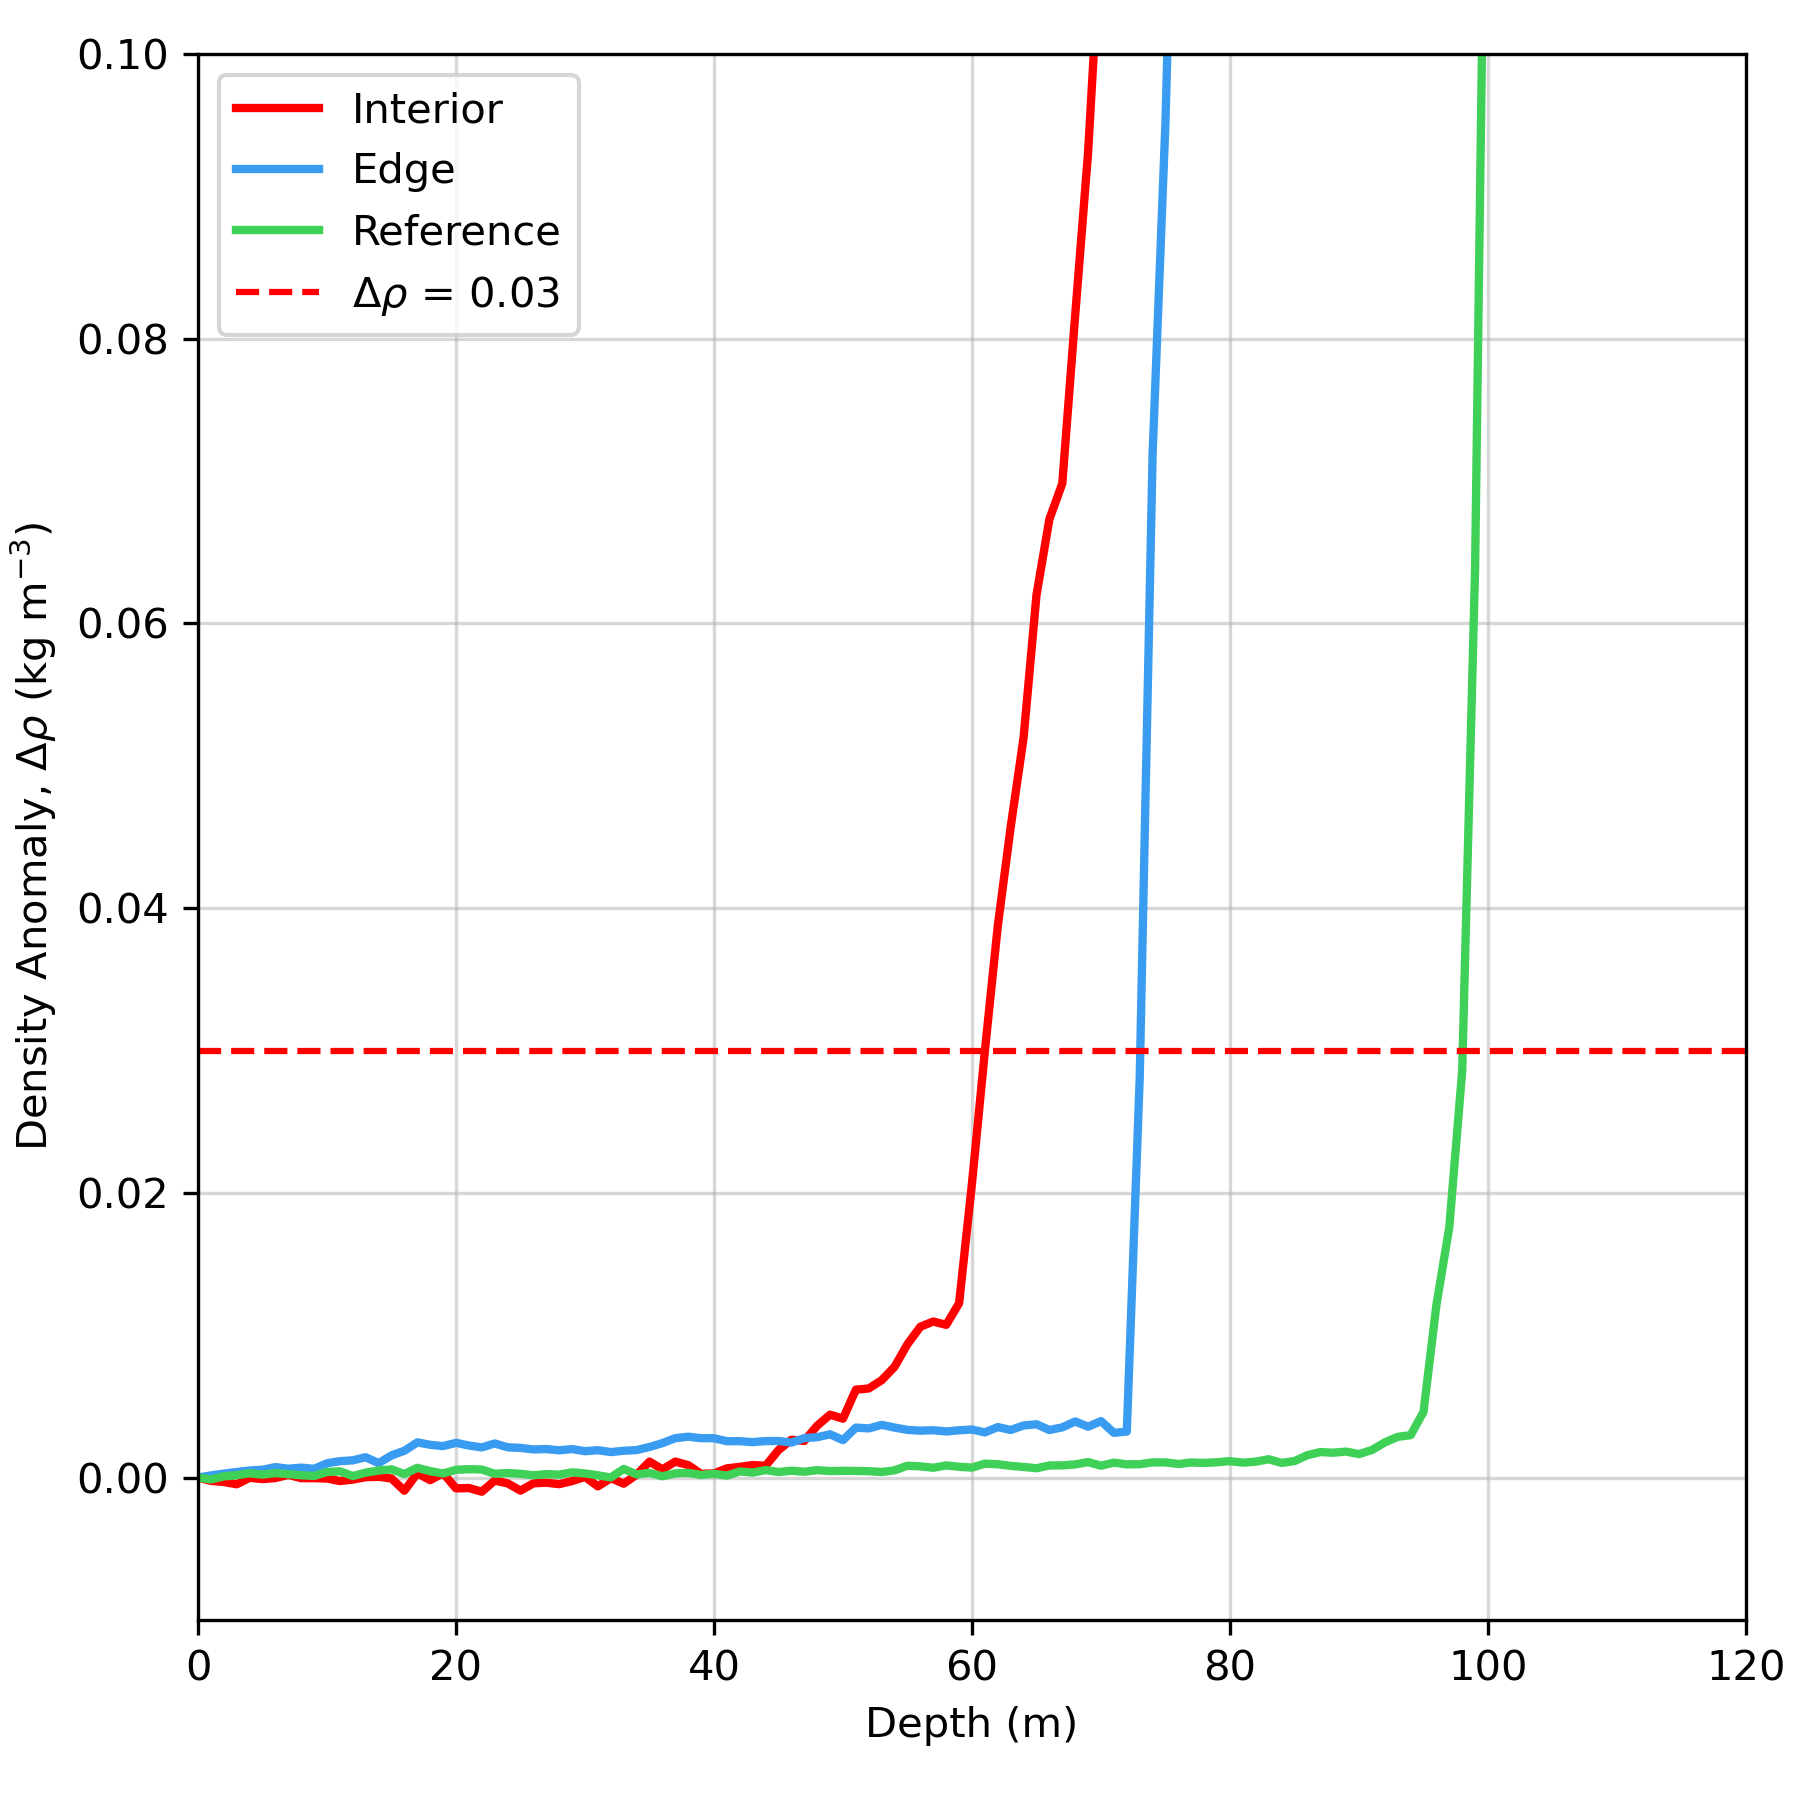
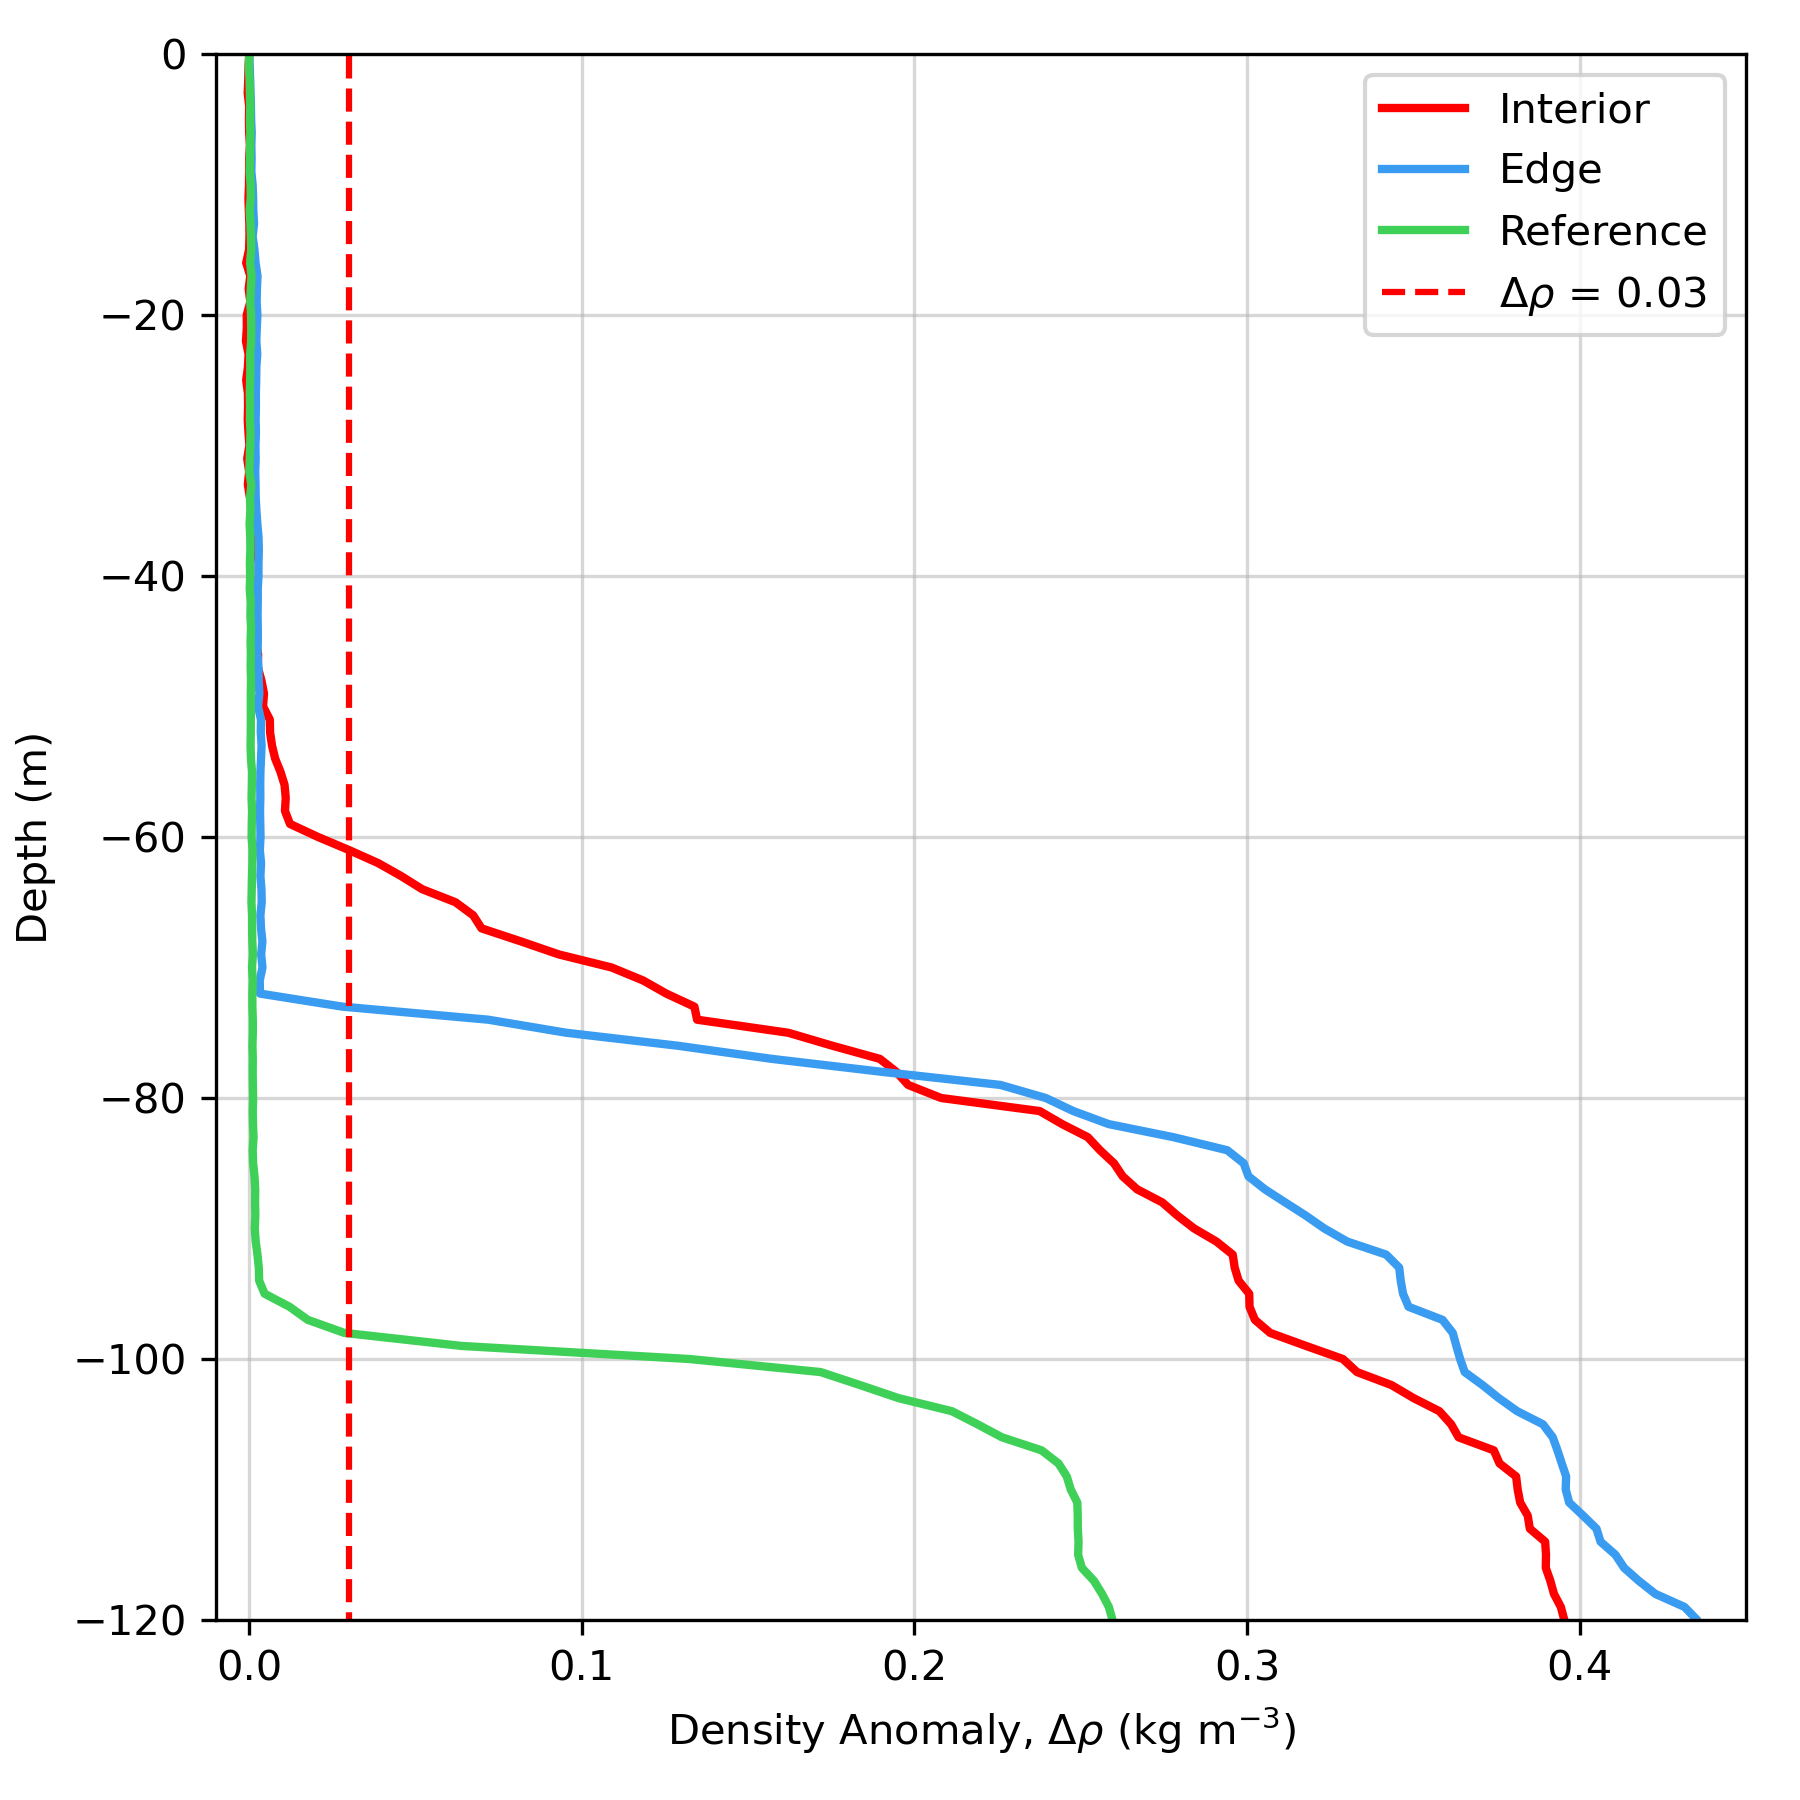
added figR2 for appendix

diff --git a/Louis/code/FigureR.py b/Louis/code/FigureR.py
@@ -3,26 +3,35 @@ import matplotlib as mpl
 from setup import import_split_and_make_transects
 from preprocessing.apply_preprocessing import scatter_and_chlorophyll_processing
 import seaborn as sns
+from gsw.density import sigma0, sigma1, rho_t_exact
+from gsw.conversions import SP_from_SA
+import numpy as np
+from preprocessing.depth_calculations.mld import MLD_calculation
 
 transects, profiles = import_split_and_make_transects(use_cache=True,
                                                       use_downcasts=True,)
 
 def temp_salinity_plot(profiles:list, ax:plt.axes, c) :
+    profiles = MLD_calculation(profiles)
     for profile in profiles:
-        pcm = ax.scatter(profile.data["salinity_final"], profile.data["temperature_final"],
-                   c="#00000000", marker="o", edgecolor=c, linewidth=0.5, s=3)
+        pd = profile.data
+        #print(pd["SA"].iloc[0], pd["CT"].iloc[0], sigma0(pd["SA"].iloc[0], pd["CT"].iloc[0]))
+        pcm = ax.scatter(pd["SA"], pd["CT"],
+                   c="#00000000", marker="o", edgecolor=c, linewidth=0.5, s=3, zorder=2)
     return pcm  
 
 
-#profiles.pop(576)
+profiles.pop(576)
 profiles = [p for p in profiles if p.index != 614]
 
 profiles1 = [p for p in profiles if p.index >= 495 and p.index < 565]
 profiles2 = [p for p in profiles if p.index >= 565 and p.index < 631]
 
 interior1 = [p for p in profiles if p.index >= 495 and p.index < 546]#550
-exterior1 = [p for p in profiles if p.index >= 548 and p.index < 565]
+b1 = [p for p in profiles if p.index >= 547 and p.index < 549]
+exterior1 = [p for p in profiles if p.index >= 549 and p.index < 565]
 exterior2 = [p for p in profiles if p.index >= 565 and p.index < 574]#580
+b2 = [p for p in profiles if p.index >= 574 and p.index < 580]
 interior2 = [p for p in profiles if p.index >= 580 and p.index < 631]
 
 #profiles 547 and 548 and 574-579 are excluded as they do not fit either water mass
@@ -30,7 +39,7 @@ p1 = [p for p in profiles if p.index == 547][0]
 print(p1.start_time, p1.end_time)
 
 
-
+boundary = b1 + b2
 exterior = exterior1 + exterior2
 interior = interior1 + interior2
 
@@ -38,29 +47,51 @@ ref = [p for p in profiles if p.index >= 710 and p.index < 760]
 
 
 fig = plt.figure(figsize=(4, 4))
-ax1 = fig.add_axes([0.2, 0.15, 0.75, 0.75])
+ax1 = fig.add_axes([0.2, 0.13, 0.75, 0.85])
 
 
 
-colors = sns.palettes.color_palette("Set1")[:2]
+colors = ["#ED7779", "#6CA9DB", "#A8D18D"]
 
+
+
+
+
+print(rho_t_exact(34.6, 1, 0))
+print(sigma0(34.6, 1))
 
 p1 = temp_salinity_plot(interior, ax1, colors[0])
+p3 = temp_salinity_plot(boundary, ax1, colors[2])
 p2 = temp_salinity_plot(exterior, ax1, colors[1])
 
 xlims, ylims = ax1.get_xlim(), ax1.get_ylim()
 
-ax1.scatter([0], [0], c="#00000000", marker="o", edgecolor=colors[0], linewidth=1, s=20, label="Interior")
-ax1.scatter([0], [0], c="#00000000", marker="o", edgecolor=colors[1], linewidth=1, s=20, label="Edge")
+
+xs = np.linspace(xlims[0]-1, xlims[1]+1, 1000)
+
+xs = SP_from_SA(xs, 0, -36.5, -61)
+
+
+X, Y = np.meshgrid(
+    xs,
+    np.linspace(ylims[0], ylims[1], 1000)
+)
+sigma = sigma0(X, Y) + 1000
+CS = ax1.contour(X, Y, sigma, colors="black", linewidths=0.5, levels=(1027.15, 1027.3, 1027.45, 1027.6, 1027.75, 1027.9))
+
+ax1.clabel(CS, fontsize=6)
+
+ax1.scatter([0], [0], c="#00000000", marker="o", edgecolor=colors[0], linewidth=1.5, s=20, label="Interior")
+ax1.scatter([0], [0], c="#00000000", marker="o", edgecolor=colors[1], linewidth=1.5, s=20, label="Edge")
+ax1.scatter([0], [0], c="#00000000", marker="o", edgecolor=colors[2], linewidth=1.5, s=20, label="Boundary")
 
 ax1.set_xlim(xlims)
 ax1.set_ylim(ylims)
+ax1.legend(loc="lower left")
 
-ax1.legend()
 
-
-ax1.set_xlabel("Salinity / g/kg")
-ax1.set_ylabel("Temperature / °C")
+ax1.set_xlabel(r"Salinity / g kg$^{-1}$")
+ax1.set_ylabel(r"Temperature / °C")
 
 
 

diff --git a/Louis/code/FigureS.py b/Louis/code/FigureS.py
@@ -6,8 +6,11 @@ import matplotlib as mpl
 from matplotlib.axes import Axes
 from plotting_functions import new_binned_plot
 import cmocean
+from preprocessing.depth_calculations.mld import MLD_calculation
+from matplotlib.colors import ListedColormap
 transects, profiles = import_split_and_make_transects(use_cache=True,
                                                       use_downcasts=True,)
+profiles = MLD_calculation(profiles)
 # from preprocessing.chlorophyll.default_quenching import default_quenching_correction
 # profiles = default_quenching_correction(profiles)
 
@@ -29,7 +32,7 @@ profiles[540].start_time = profiles[539].start_time
 profiles.pop(539)
 profiles.pop(538)
 
-
+profiles = [p for p in profiles if p.index not in [595, 594]]
 
 profiles1 = [p for p in profiles if p.index >= 495 and p.index < 565]
 profiles2 = [p for p in profiles if p.index >= 565 and p.index < 631]
@@ -42,8 +45,9 @@ exterior = exterior1 + exterior2
 interior = interior1 + interior2
 
 
-print(exterior1[0].start_time, exterior1[-1].end_time)
-print(exterior2[0].start_time, exterior2[-1].end_time)
+print(exterior1[0].start_location[1], exterior1[0].start_location[0])
+print(exterior2[-1].end_location[1], exterior2[-1].end_location[0])
+print(interior1[0].start_location[1], interior1[0].start_location[0])
 
 
 
@@ -57,18 +61,28 @@ for profiles, loop_ax, loop_ax1, loop_ax2 in [(profiles1, ax, ax1, ax2), (profil
     my_cmap.set_extremes(over=(0,0,0), under=(1,1,1))
     my_norm = mpl.colors.Normalize(vmin=-1.5, vmax=1.5, clip=True)
 
-    pcm = new_binned_plot(profiles, loop_ax, "temperature_final", 3, 800, cmap=my_cmap, norm=my_norm)
+    pcm = new_binned_plot(profiles, loop_ax, "CT", 3, 800, cmap=my_cmap, norm=my_norm)
     c1 = plt.colorbar(pcm, cax=cbar_ax)
     cbar_ax.set_ylabel(r"Temperature / °C")
 
 
     my_cmap = cmocean.cm.haline.copy()
-    my_cmap.set_extremes(over=(0,0,0), under=(1,1,1))
-    my_norm = mpl.colors.LogNorm(vmin=33.8, vmax=34.7, clip=True)
+    # Add a section of the RdPu colormap to the lower portion of this cmap
 
-    pcm2 = new_binned_plot(profiles, loop_ax1, "salinity_final", 3, 800, cmap=my_cmap, norm=my_norm)
+    # Get the original haline colormap as an array
+    haline_colors = my_cmap(np.linspace(0, 1, 256))[15:]
+    rdpu = plt.get_cmap('PiYG_r')
+    rdpu_section = rdpu(np.linspace(0.6, 1, 25))
+    combined_colors = np.vstack([rdpu_section, haline_colors])
+
+    # Create new colormap
+    my_cmap = ListedColormap(combined_colors)
+    my_cmap.set_extremes(over=(0,0,0), under=(1,1,1))
+    my_norm = mpl.colors.Normalize(vmin=34, vmax=34.8, clip=True)
+
+    pcm2 = new_binned_plot(profiles, loop_ax1, "SA", 3, 800, cmap=my_cmap, norm=my_norm)
     c2 = plt.colorbar(pcm2, cax=cbar_ax2)
-    cbar_ax2.set_ylabel(r"Salinity / g/kg")
+    cbar_ax2.set_ylabel(r"Salinity / g kg$^{-1}$")
 
 
 
@@ -92,14 +106,9 @@ for profiles, loop_ax, loop_ax1, loop_ax2 in [(profiles1, ax, ax1, ax2), (profil
         loop_ax2.plot(times, baths, color="black")
 
 
-    az_depths = pd.Series([-p.active_zone for p in profiles]).interpolate(method="linear", limit_direction="both")
-    ts = [p.start_time + 0.5*(p.end_time-p.start_time) for p in profiles]
-    loop_ax.plot(ts, az_depths, color="red", label="High Chlorohyll Zone Depth")
 
 
 
-
-axb.legend(loc="lower right", fontsize=8, framealpha=1)
 
 
 

diff --git a/Louis/code/preprocessing/depth_calculations/mld.py b/Louis/code/preprocessing/depth_calculations/mld.py
@@ -11,6 +11,8 @@ def MLD_calculation(profiles:list) -> list:
         lon = profile.data["longitude"]
         corrected_salinity = SA_from_SP(salinity, pressure, lon, lat)
         corrected_temperature = CT_from_t(corrected_salinity, temperature, pressure)
+        profile.data["SA"] = corrected_salinity
+        profile.data["CT"] = corrected_temperature
              
         absolute_density = sigma0(corrected_salinity, corrected_temperature)
         
@@ -19,7 +21,7 @@ def MLD_calculation(profiles:list) -> list:
         df = profile.data
         df = df.sort_values("depth")
         temp_df = df.dropna(subset=["density"])
-        surface_density = temp_df.iloc[0]["density"] if len(temp_df) > 0 else 0
+        surface_density = temp_df.iloc[0]["density"] if (len(temp_df) > 0) and (temp_df.iloc[0]["depth"] < 5) else 0
         df["density_anomaly"] = df["density"] - surface_density 
         profile.data["density_anomaly"] = profile.data["density"] - surface_density
         df = df[df["density_anomaly"] > 0.03]
@@ -35,9 +37,10 @@ def MLD_calculation(profiles:list) -> list:
                 other_index = mld_index + 1
             else:
                 other_index = mld_index - 1
-
-            other_depth = profile.data[profile.data["original_index"] == other_index]["depth"].iloc[0]
-
+            try:
+                other_depth = profile.data[profile.data["original_index"] == other_index]["depth"].iloc[0]
+            except IndexError:
+                other_depth = mld_depth
             profile.mld = (mld_depth + other_depth)/2
 
     return profiles

diff --git a/Louis/code/FigureB.py b/Louis/code/FigureB.py
@@ -7,7 +7,7 @@ transects, profiles = import_split_and_make_transects(use_cache=True,
 
 
 fig = plt.figure(figsize=(6, 6))
-ax = fig.add_axes([0.11, 0.1, 0.86, 0.87])
+ax = fig.add_axes([0.12, 0.1, 0.85, 0.87])
 
 
 #a, b, c = 530, 563, 750
@@ -33,18 +33,21 @@ for profile, label, color in profiles_to_plot:
     df["depth"] = df["depth"].round(0)
     d = df.groupby("depth")["density_anomaly"].mean()
 
-    ax.plot(d,
+    ax.plot(d.values,
+            -d.index,
             label=label,
             color=color,
-            linewidth="2")
-ax.hlines(0.03, 0, 1000, color="red", linestyles="dashed", label=r"$\Delta \rho$ = 0.03")
+            linewidth=2)
+ax.vlines(0.03, -1000, 1000, color="red", linestyles="dashed", label=r"$\Delta \rho$ = 0.03")
 
 
-ax.set_xlim(0, 120)
-ax.set_ylim(-0.01, 0.1)
-ax.set_xlabel("Depth (m)")
-ax.set_ylabel(r"Density Anomaly, $\Delta \rho$ (kg m$^{-3}$)")
-ax.legend(loc="upper left")
+ax.set_ylim(-120, 0)
+ax.set_xlim(-0.01, 0.45)
+ax.set_ylabel("Depth (m)")
+ax.set_xlabel(r"Density Anomaly, $\Delta \rho$ (kg m$^{-3}$)")
+ax.legend(loc="upper right")
 ax.grid(alpha=0.5)
+
+
 #fig.tight_layout()
 plt.savefig("Louis/figures/figureB.png", dpi=300)

diff --git a/Louis/code/FigureQ.py b/Louis/code/FigureQ.py
@@ -96,6 +96,7 @@ for sections, name, ax in zip([int_2_day_sections, ext_2_day_sections], ["Interi
         sigma = np.diag(pcov)[0]**0.5
         ci = sigma * tval
         scatter_marker = ax.scatter(depths, binned_data, marker="x", color="black", linewidth=1)
+        print(name, binned_data[2])
         bs.append(b)
         cis.append(ci)
 
